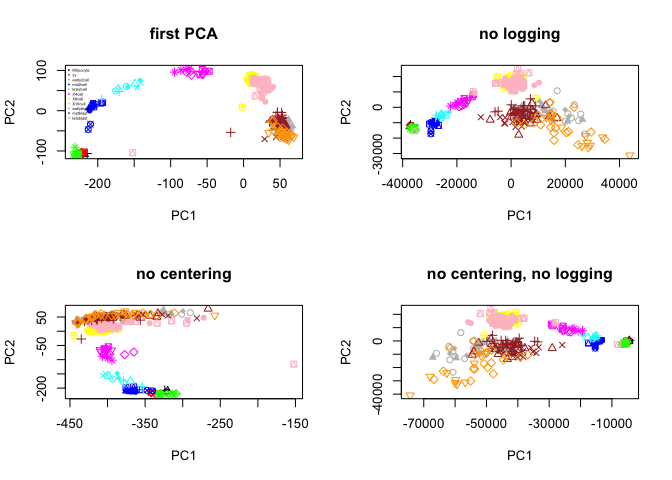
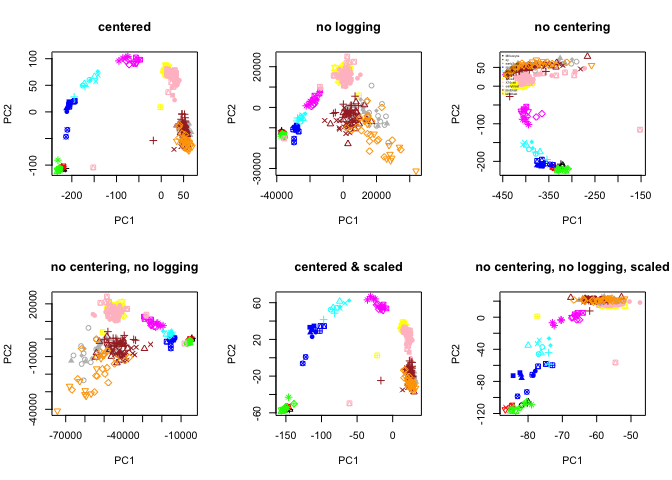
PCA lab update

diff --git a/labs/PCA_and_clustering.md b/labs/PCA_and_clustering.md
@@ -1,5 +1,6 @@
 PCA and clustering on a single cell RNA-seq dataset
 ===================================================
+
 Author: Åsa Björklund
 
 Here are some simple examples on how to run PCA/Clustering on a single cell RNA-seq dataset.
@@ -191,20 +192,29 @@ for (gene in plotgenes) {
 
 ### Different settings in PCA
 
-You ran PCA on log transformed rpkms and by default it does centering of the data, test doing it without logging and witout centering and compare the results.
+You ran PCA on log transformed rpkms and by default it does centering of the data, test doing it without logging, witout centering and with scaling and compare the results.
 
 ``` r
-PC.nolog<-prcomp(t(DATA))
-PC.nocenter<-prcomp(t(log2(DATA+1)),center=FALSE)
-PC.nocenterlog<-prcomp(t(DATA),center=FALSE)
-    
-# plot all 4 PCA settings
-par(mfrow=c(2,2))
-plot(PC$x[,1:2],col=col.stage,pch=pch.embryo,main="first PCA")
-legend("topleft",stages,col=coldef.stage,pch=16,cex=0.3,bty='n')
+# remove all unexpressed genes (or expressed in <= 2 cells), 
+# since scaling are not possible for genes with zero variance
+D <- DATA[rowSums(DATA>1)>2,]
+
+PC.center <- prcomp(t(log2(D+1)))
+PC.nolog<-prcomp(t(D))
+PC.nocenter<-prcomp(t(log2(D+1)),center=FALSE)
+PC.nocenterlog<-prcomp(t(D),center=FALSE)
+PC.scale <- prcomp(t(log2(D+1)),center=TRUE, scale=TRUE)
+PC.nocenterlog_scale<-prcomp(t(D),center=FALSE,scale=TRUE)  
+
+# plot all 6 PCA settings
+par(mfrow=c(2,3))
+plot(PC.center$x[,1:2],col=col.stage,pch=pch.embryo,main="centered")
 plot(PC.nolog$x[,1:2],col=col.stage,pch=pch.embryo,main="no logging")
 plot(PC.nocenter$x[,1:2],col=col.stage,pch=pch.embryo,main="no centering")
+legend("topleft",stages,col=coldef.stage,pch=16,cex=0.3,bty='n')
 plot(PC.nocenterlog$x[,1:2],col=col.stage,pch=pch.embryo,main="no centering, no logging")
+plot(PC.scale$x[,1:2],col=col.stage,pch=pch.embryo,main="centered & scaled")
+plot(PC.nocenterlog_scale$x[,1:2],col=col.stage,pch=pch.embryo,main="no centering, no logging, scaled")
 ```
 
 ![](PCA_and_clustering_files/figure-markdown_github/unnamed-chunk-9-1.png)
